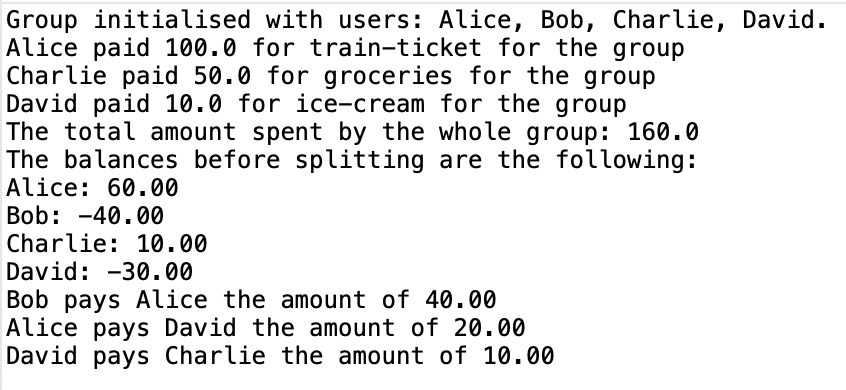
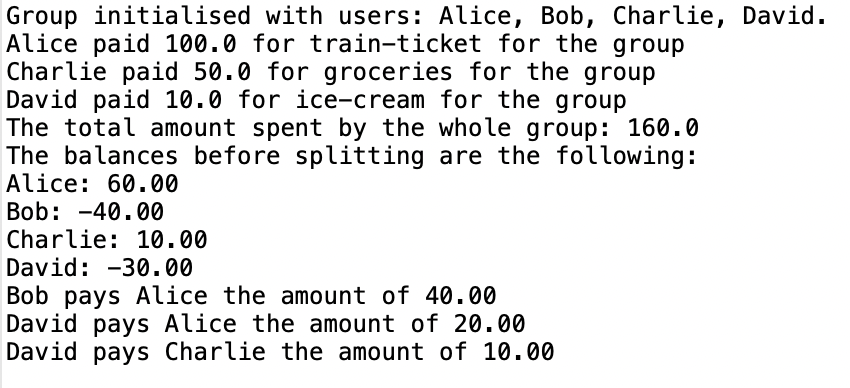
fix sign error in greedy algorithm

Changed region(s): [[0.0, 0.0, 0.9835, 0.9588]]

diff --git a/src/Application.java b/src/Application.java
@@ -223,8 +223,8 @@ public class Application {
 	        double largestNegative = balancesChanging[0];
 	        double largestPositive = balancesChanging[balancesChanging.length-1];
 	        if (-largestNegative > largestPositive) {
-	        	int payerId = id2sortedId.get(balancesChanging.length-1);
-	        	int payeeId = id2sortedId.get(0);
+	        	int payerId = id2sortedId.get(0);
+	        	int payeeId = id2sortedId.get(balancesChanging.length-1);
 	        	int[] direction = new int[] {payerId, payeeId};
 	        	transactions.put(direction, balancesChanging[balancesChanging.length-1]);
 	        	System.out.println(users.get(payerId) + " pays " + users.get(payeeId) + " the amount of " + df.format(balancesChanging[balancesChanging.length-1]));
